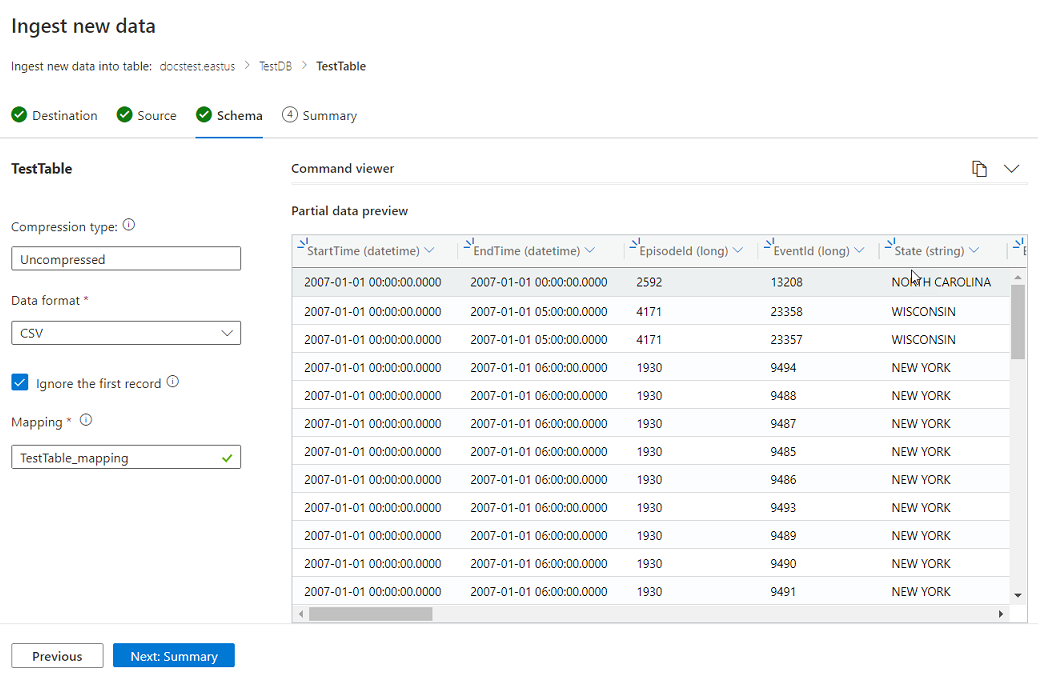
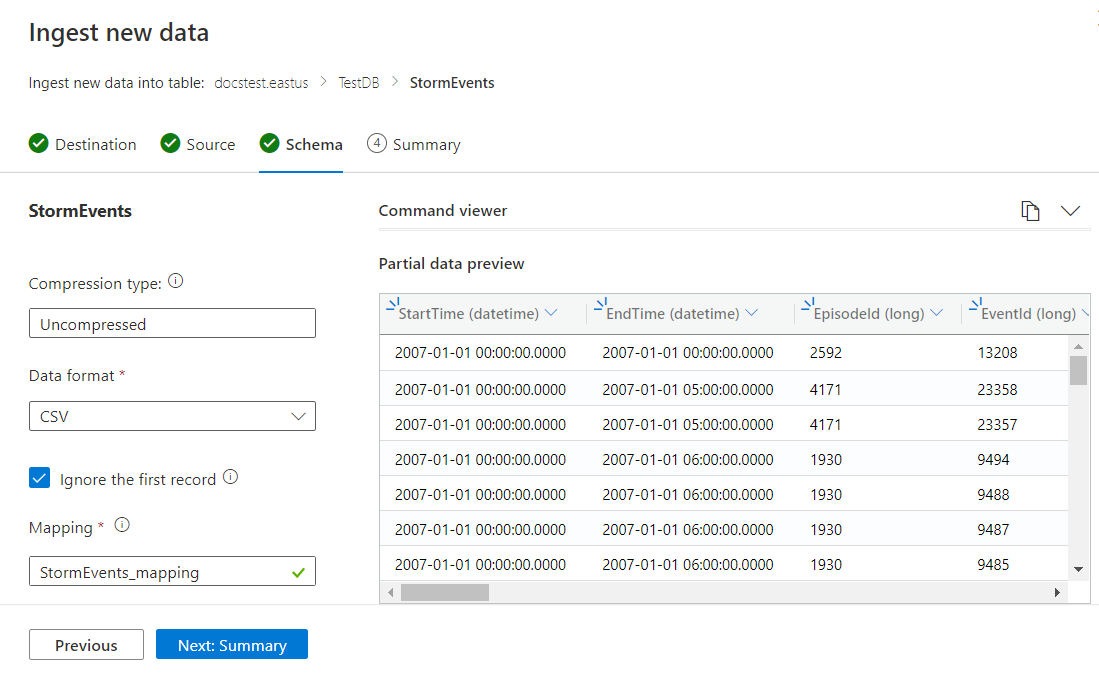
fix images

diff --git a/data-explorer/ingest-sample-data.md b/data-explorer/ingest-sample-data.md
@@ -73,7 +73,7 @@ The **StormEvents** sample data set contains weather-related data from the [Nati
     |---|---|
     | Cluster | A unique cluster name | Select your cluster. |
     | Database | Select the database that best meets your needs. |
-    | Table | Create a new table named *TestTable*. |
+    | Table | Create a new table. For this example, you can name it *StormEvents*. |
     
 1. Specify out the source details with the following information.
 
